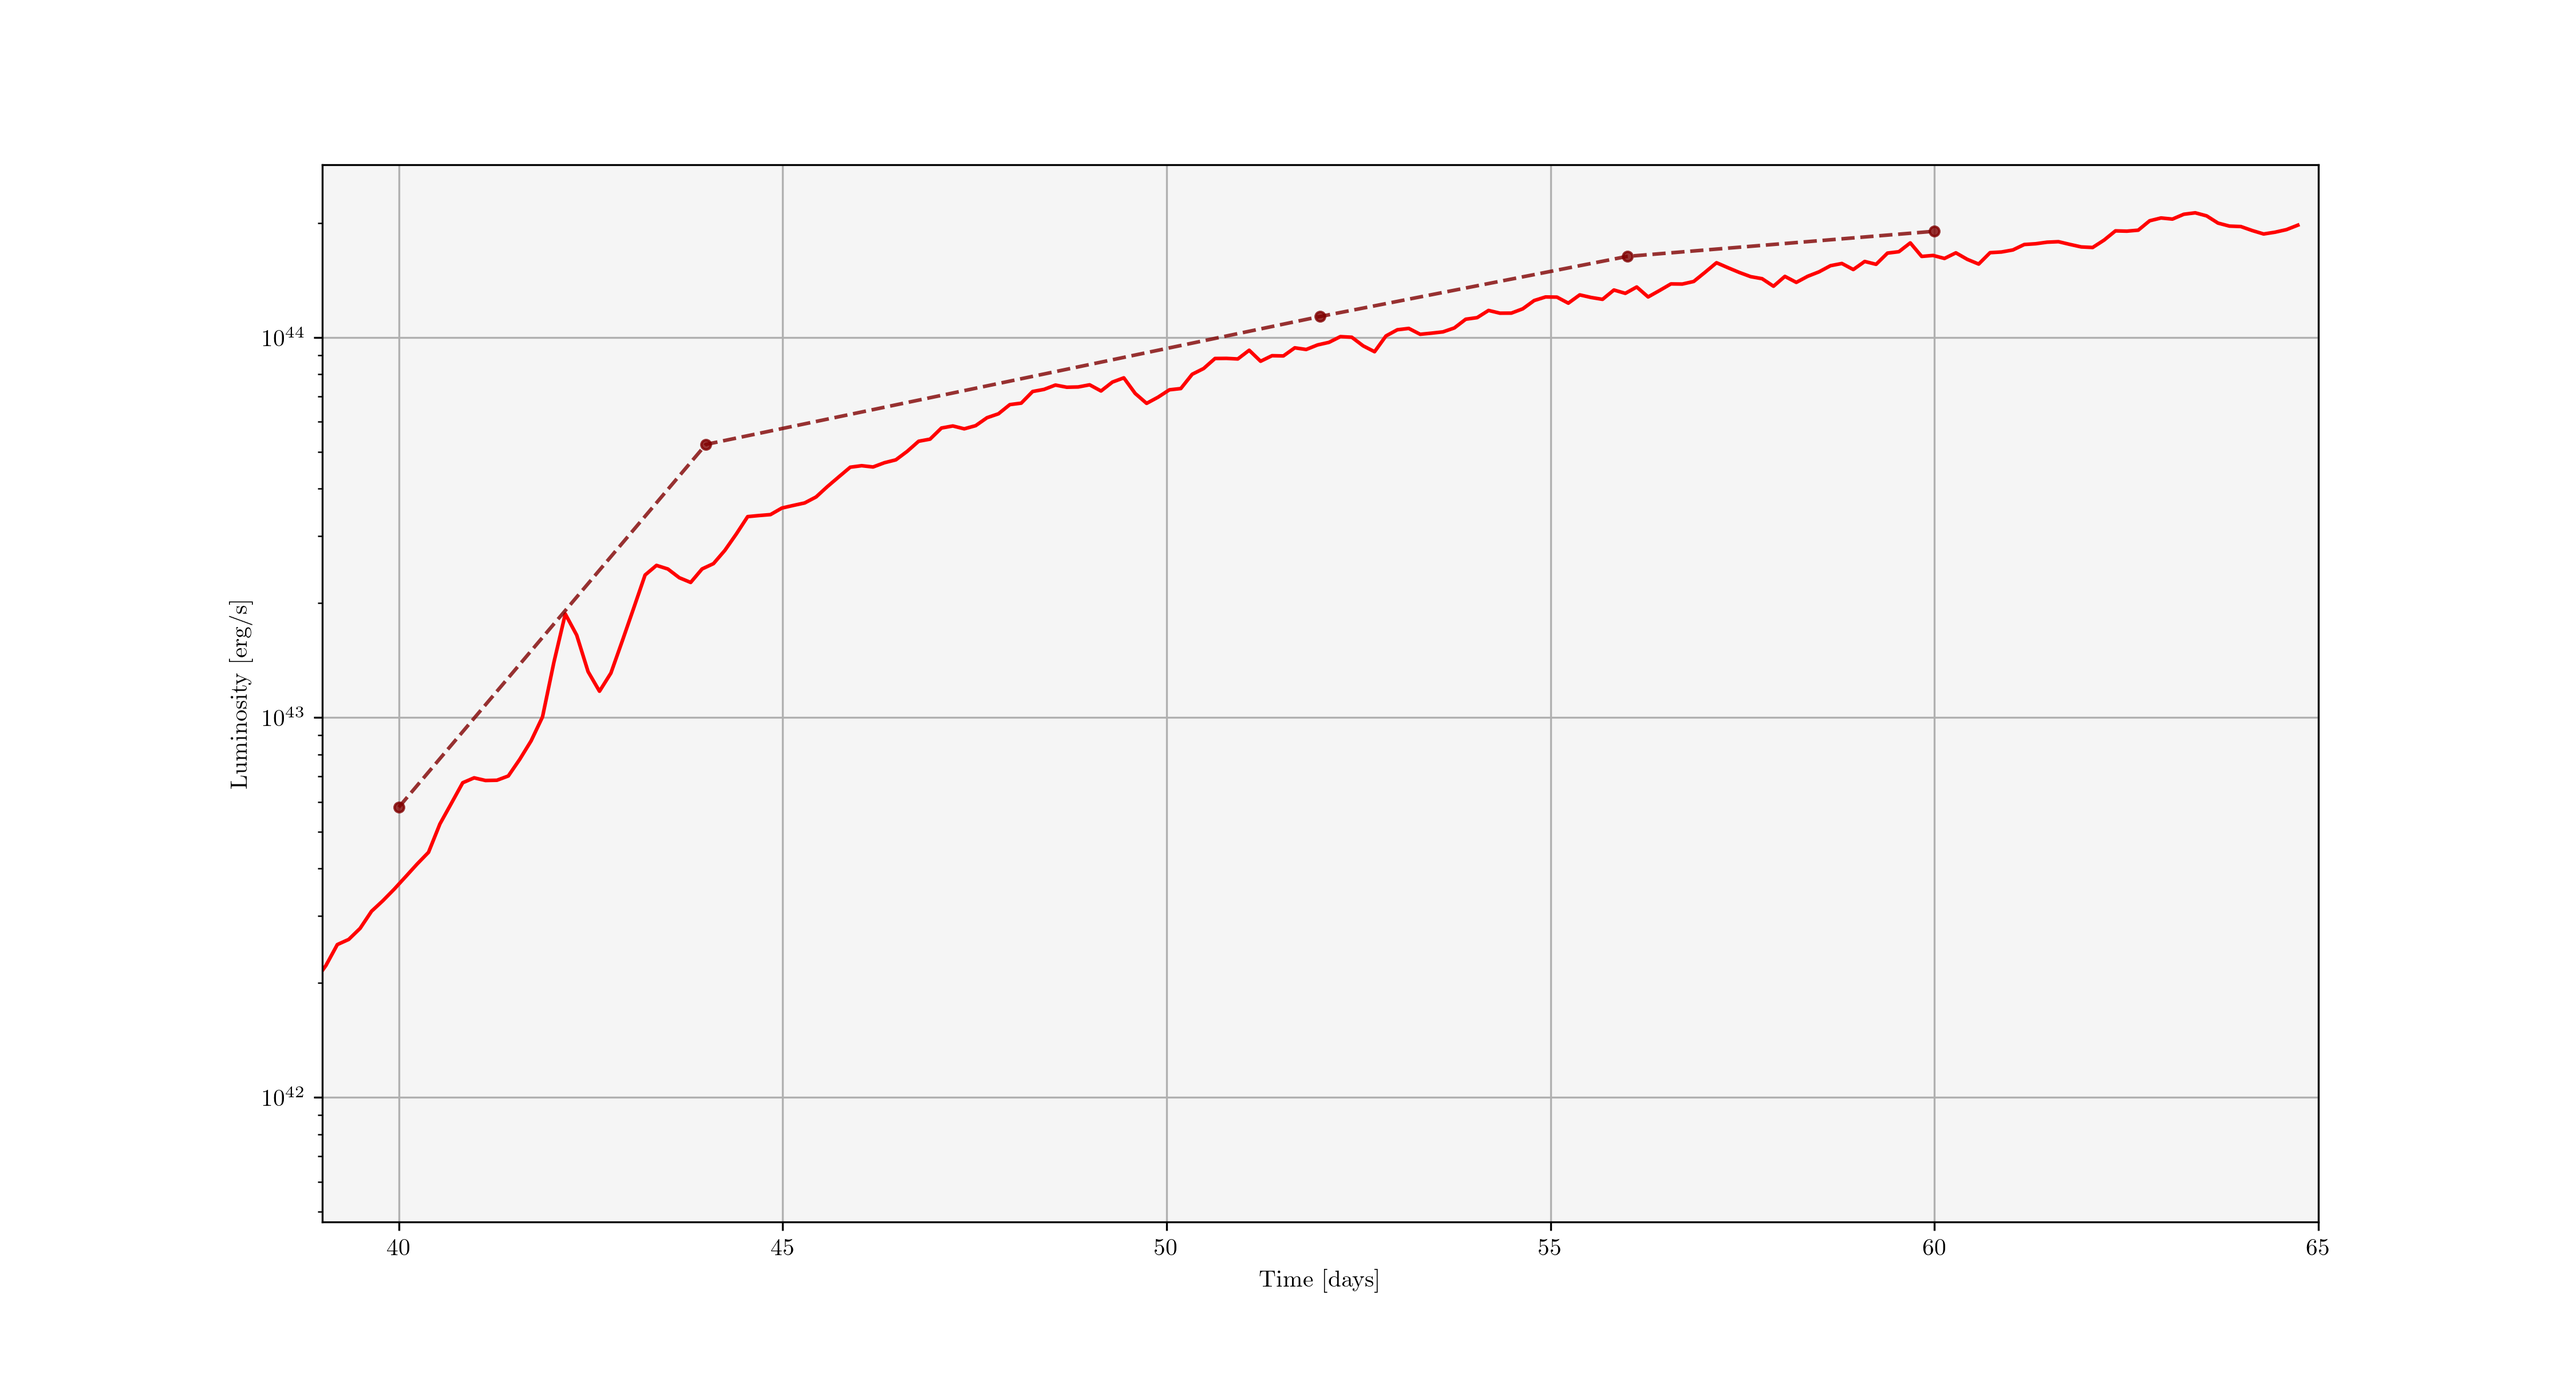
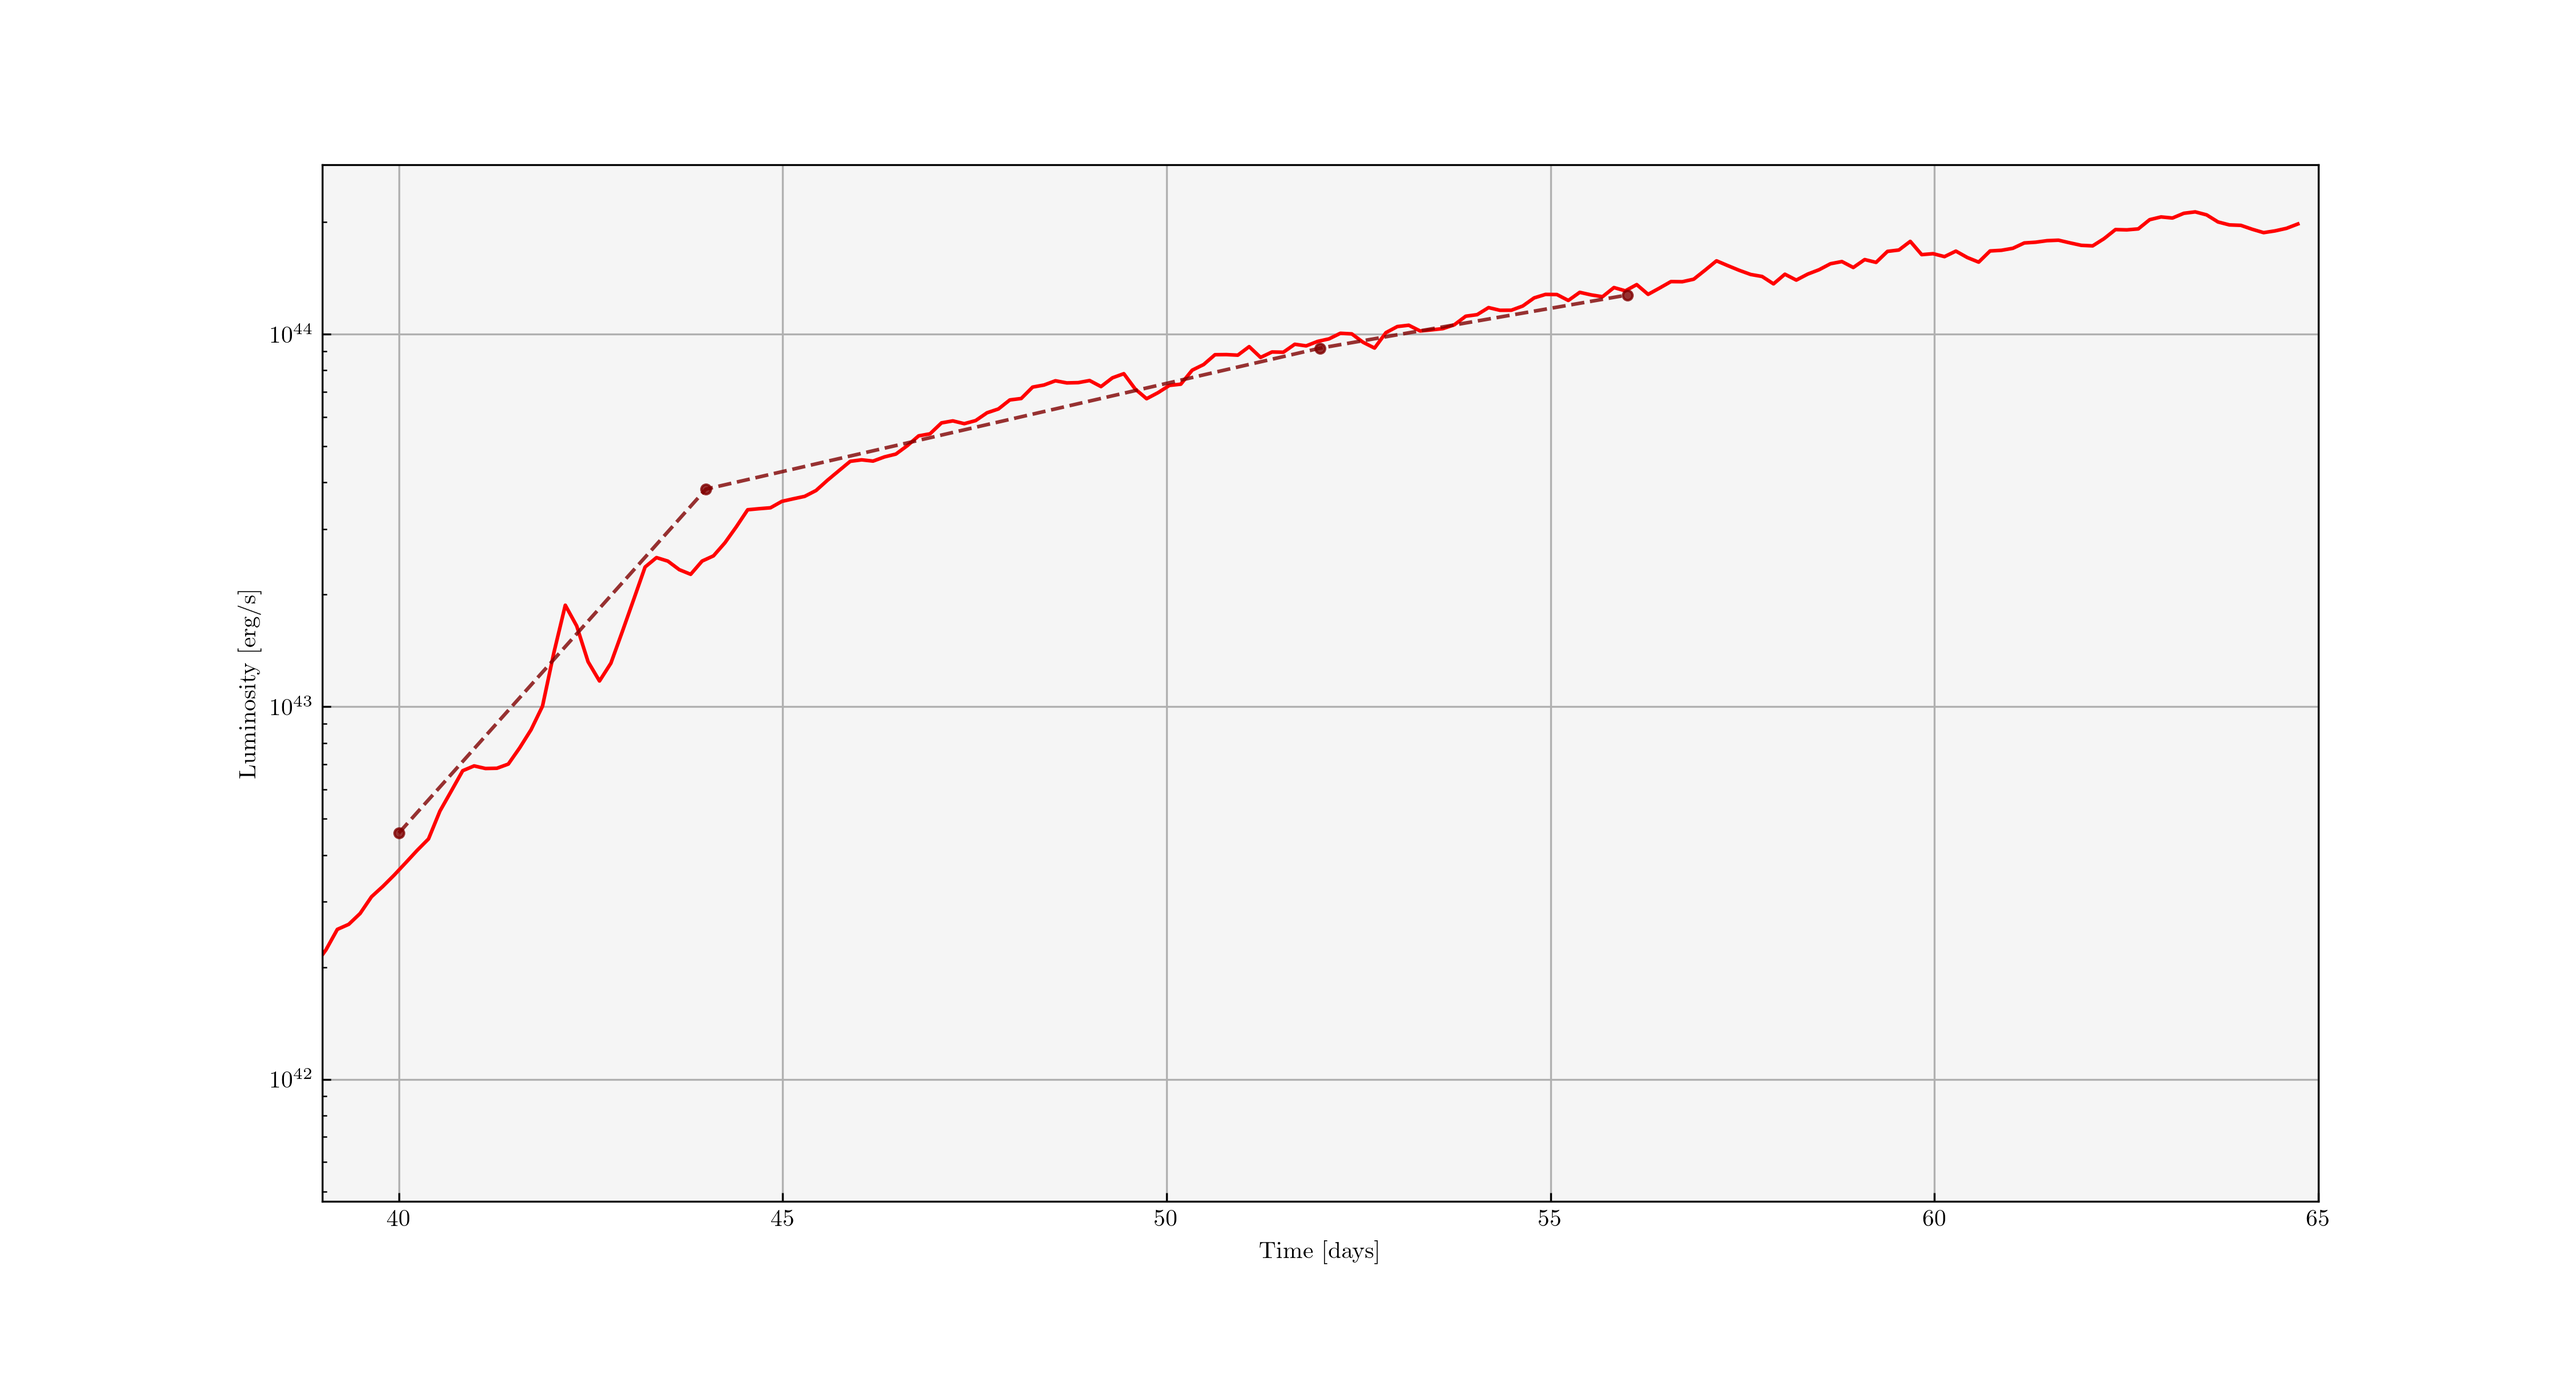
projecting to rhat and debugging

diff --git a/src/Luminosity/red_tree.py b/src/Luminosity/red_tree.py
@@ -55,7 +55,7 @@ def select_fix(m):
             snapshots = np.arange(844, 1008 + 1)
             days = [1.00325,1.007,1.01075,1.01425,1.018,1.02175,1.0255,1.029,1.03275,1.0365,1.04025,1.04375,1.0475,1.05125,1.055,1.0585,1.06225,1.066,1.06975,1.07325,1.077,1.08075,1.0845,1.088,1.09175,1.0955,1.09925,1.10275,1.1065,1.11025,1.114,1.1175,1.12125,1.125,1.12875,1.13225,1.136,1.13975,1.1435,1.147,1.15075,1.1545,1.15825,1.16175,1.1655,1.16925,1.173,1.1765,1.18025,1.184,1.18775,1.19125,1.195,1.19875,1.2025,1.206,1.20975,1.2135,1.21725,1.22075,1.2245,1.22825,1.232,1.2355,1.23925,1.243,1.24675,1.25025,1.254,1.25775,1.2615,1.265,1.26875,1.2725,1.27625,1.27975,1.2835,1.28725,1.291,1.2945,1.29825,1.302,1.30575,1.30925,1.313,1.31675,1.3205,1.324,1.32775,1.3315,1.33525,1.33875,1.3425,1.34625,1.35,1.3535,1.35725,1.361,1.36475,1.36825,1.372,1.37575,1.3795,1.383,1.38675,1.3905,1.39425,1.39775,1.4015,1.40525,1.409,1.4125,1.41625,1.42,1.42375,1.42725,1.431,1.43475,1.4385,1.442,1.44575,1.4495,1.45325,1.45675,1.4605,1.46425,1.468,1.4715,1.47525,1.479,1.48275,1.48625,1.49,1.49375,1.4975,1.501,1.50475,1.5085,1.51225,1.51575,1.5195,1.52325,1.527,1.5305,1.53425,1.538,1.54175,1.54525,1.549,1.55275,1.5565,1.56,1.56375,1.5675,1.57125,1.57475,1.5785,1.58225,1.586,1.5895,1.59325,1.597,1.60075,1.60425,1.608]
         else:
-            snapshots = [844, 881, 925, 950, 980]#, 1008] 
+            snapshots = [844, 881, 925, 950] #, 980]#, 1008] 
             days = [1, 1.1, 1.3, 1.4, 1.5]#, 1.608] 
     return snapshots, days
 
@@ -73,7 +73,7 @@ def find_neighbours(fix, m, tree_index_photo, dist_neigh):
      tree_index_photo: 1D array.
                  Photosphere index in the tree.
      dist_neigh : 1D array.
-               Distance from photosphere (in Rsol).
+                2(3πV/4)^(1/3), Distance from photosphere (in Rsol).
 
      Returns
      -------
@@ -105,32 +105,41 @@ def find_neighbours(fix, m, tree_index_photo, dist_neigh):
 
     # store data of R_{ph} (lenght in Rsol)
     tree_index_photo = [int(x) for x in tree_index_photo]
-    xyz_selected = [X[tree_index_photo], Y[tree_index_photo], Z[tree_index_photo]]
-    r_selected, theta_selected, phi_selected = cartesian_to_spherical(xyz_selected[0], 
-                                                                      xyz_selected[1], xyz_selected[2])
+    xyz_obs = [X[tree_index_photo], Y[tree_index_photo], Z[tree_index_photo]]
+    r_obs, theta_obs, phi_obs = cartesian_to_spherical(xyz_obs[0], xyz_obs[1],
+                                                       xyz_obs[2])
     # Find the coordinates of neighborus.
     # For every ray, they have its (theta,phi) and R = R_{ph} +- 2dr
-    r_low = r_selected - dist_neigh
-    r_high = r_selected + dist_neigh
+    r_low = r_obs - dist_neigh
+    r_high = r_obs + dist_neigh
 
     # convert to cartesian and query 
-    x_low, y_low, z_low  = spherical_to_cartesian(r_low, theta_selected, phi_selected)
-    x_high, y_high, z_high  = spherical_to_cartesian(r_high, theta_selected, phi_selected)
+    x_low, y_low, z_low  = spherical_to_cartesian(r_low, theta_obs, phi_obs)
+    x_high, y_high, z_high  = spherical_to_cartesian(r_high, theta_obs, phi_obs)
     idx_low = np.zeros(len(tree_index_photo))
     idx_high = np.zeros(len(tree_index_photo))
-    dist = np.zeros(len(tree_index_photo))
+    grad_r = np.zeros(len(tree_index_photo))
+    
+    # Find inner and outer neighbours
     for i in range(len(x_low)):
         _, idx_l = sim_tree.query([x_low[i], y_low[i], z_low[i]])
         _, idx_h = sim_tree.query([x_high[i], y_high[i], z_high[i]])
         idx_low[i] = idx_l
         idx_high[i] = idx_h
-        xyz_low = [X[idx_l], Y[idx_l], Z[idx_l]]
-        xyz_high = [X[idx_h], Y[idx_h], Z[idx_h]]
-        dist[i] = math.dist(xyz_high, xyz_low)
+        xyz_low = np.array([X[idx_l], Y[idx_l], Z[idx_l]])
+        xyz_high = np.array([X[idx_h], Y[idx_h], Z[idx_h]])
+        diff = 1 / np.subtract(xyz_high, xyz_low)
+        rhat = [np.sin(theta_obs[i]) * np.cos(phi_obs[i]),
+                np.sin(theta_obs[i]) * np.sin(phi_obs[i]),
+                np.cos(theta_obs[i])
+                ]
+        grad_r[i] = np.dot(diff, rhat) # Project
+        # dist[i] = math.dist(xyz_high, xyz_low)
 
+    
     # store data of neighbours
-    idx_low = [int(x) for x in idx_low] #necessary to avoid dumb stuff with indexing later
-    idx_high = [int(x) for x in idx_high] #same
+    idx_low = [int(x) for x in idx_low] #necavoid dumb stuff with indexing later
+    idx_high = [int(x) for x in idx_high] #sameessary to 
     energy_low = Rad[idx_low]
     energy_high = Rad[idx_high]
     T_high = T[idx_high]
@@ -140,8 +149,8 @@ def find_neighbours(fix, m, tree_index_photo, dist_neigh):
     deltaE = energy_high - energy_low
     # delta_r = r_high - r_low
     # delta_r *= Rsol_to_cm # convert to CGS for the gradient
-    dist *= Rsol_to_cm
-    grad_E = deltaE / dist
+    grad_r *= Rsol_to_cm
+    grad_E = deltaE * grad_r
     
     return grad_E, energy_high, T_high, den_high
 

diff --git a/src/Luminosity/special_radii_tree.py b/src/Luminosity/special_radii_tree.py
@@ -31,6 +31,8 @@ from src.Opacity.opacity_table import opacity
 from src.Calculators.ray_tree import ray_maker
 
 Rsol_to_cm = 6.957e10 # [cm]
+
+
 ################
 # FUNCTIONS
 ################
@@ -40,8 +42,8 @@ def select_fix(m):
         snapshots = [233] #, 254, 263, 277 , 293, 308, 322]
         days = [1]# , 1.2, 1.3, 1.4, 1.56, 1.7, 1.8] 
     if m == 6:
-        snapshots = [844, 881, 925, 950, 980, 1008] 
-        days = [1, 1.1, 1.3, 1.4, 1.5, 1.6] 
+        snapshots = [844, 881,] # 925, 950, 980, 1008] 
+        days = [1, 1.1,]# 1.3, 1.4, 1.5, 1.6] 
     return snapshots, days
 
 def get_kappa(T: float, rho: float, r_dlogr: float):
@@ -62,16 +64,20 @@ def get_kappa(T: float, rho: float, r_dlogr: float):
     kappar: int.
             The "optical depth" of a cell.
     '''    
+    global hot_counter, nothing_counter, cold_counter, normal_counter
     # If there is nothing, the ray continues unimpeded
-    if rho < np.exp(-49.3):
+    if rho < np.exp(-49.3):        
+        nothing_counter += 1
         return 0
     
     # Stream material, is opaque
-    if T < np.exp(8.666):
+    elif T < np.exp(8.666):
+        
+        cold_counter += 1
         return 100
     
     # Too hot: Kramers' law for absorption (planck)
-    if T > np.exp(17.876):
+    elif T > np.exp(17.876):
         X = 0.7389
         Z = 0.02
         # kplanck =  1.2e26 * Z * (1 + X) * T**(-3.5) * rho #Kramers' bound-free opacity [cm^2/g]
@@ -83,13 +89,16 @@ def get_kappa(T: float, rho: float, r_dlogr: float):
 
         oppi = kplanck + kscattering
         tau_high = oppi * r_dlogr
+        
+        hot_counter += 1
         return tau_high 
     
-    # Lookup table
-    k = opacity(T, rho,'red', ln = False)
-    kappar =  k * r_dlogr
-    
-    return kappar
+    else:
+        # Lookup table
+        k = opacity(T, rho,'red', ln = False)
+        kappar =  k * r_dlogr
+        normal_counter += 1
+        return kappar
 
 def calc_photosphere(T, rho, radius, branch_indexes):
     '''
@@ -330,9 +339,9 @@ def get_thermr(rays_T, rays_den, radii, tree_indexes):
 
 if __name__ == "__main__":
     photosphere = True
-    thermalisation = True
+    thermalisation = False
     
-    plot = False
+    plot = True
     m = 6 
     loadpath = str(m) + '/'
     snapshots, days = select_fix(m)
@@ -343,6 +352,13 @@ if __name__ == "__main__":
     fix_thermr_geom = np.zeros(len(snapshots))
 
     for index in range(0,4):#len(snapshots)):
+        
+        # Bad code to debug
+        hot_counter = 0
+        nothing_counter = 0
+        cold_counter = 0
+        normal_counter = 0
+        
         print('Snapshot ' + str(snapshots[index]))
         tree_indexes, rays_T, rays_den, rays, radii, rays_vol = ray_maker(snapshots[index], m)
 
@@ -369,6 +385,10 @@ if __name__ == "__main__":
 
             fix_photo_arit[index] = np.mean(rays_photo)
             fix_photo_geom[index] = gmean(rays_photo)
+            print('hot: ', hot_counter )
+            print('cold: ', cold_counter )
+            print('nothing: ', nothing_counter)
+            print('normal: ', normal_counter )
 
             if plot:
                 fig, ax = plt.subplots(figsize = (8,6))
@@ -386,6 +406,7 @@ if __name__ == "__main__":
                 plt.legend()
                 plt.savefig('photo_obs' + str(snapshots[index]) + '.png')
                 plt.show()  
+                
 
         if thermalisation: 
             rays_tau, rays_cumulative_taus, rays_thermr, rays_index_therm = get_thermr(rays_T, rays_den, radii, tree_indexes)
